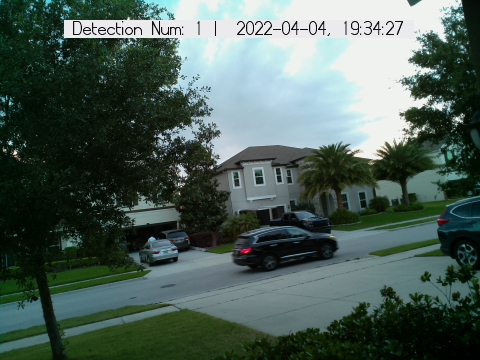
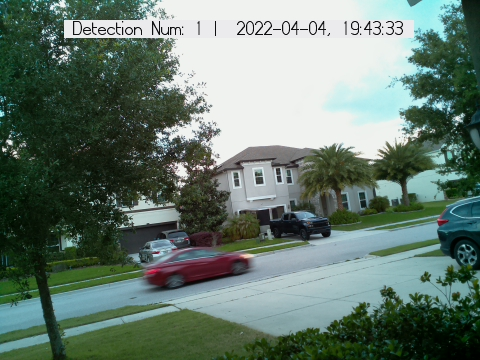
Commiting photos and text.

diff --git a/README.md b/README.md
@@ -1,2 +1,2 @@
 
-Detection Num: 1 |  2022-04-04, 19:34:27<br />
+Detection Num: 1 |  2022-04-04, 19:34:27<br />Detection Num: 1 |  2022-04-04, 19:43:33<br />
